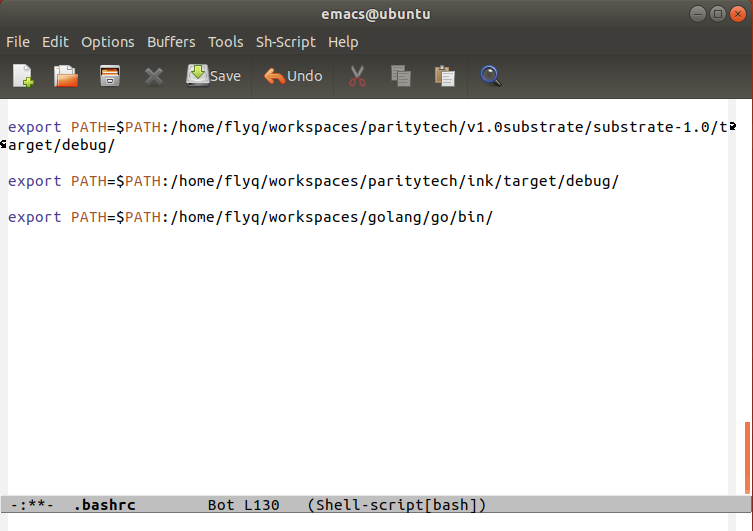
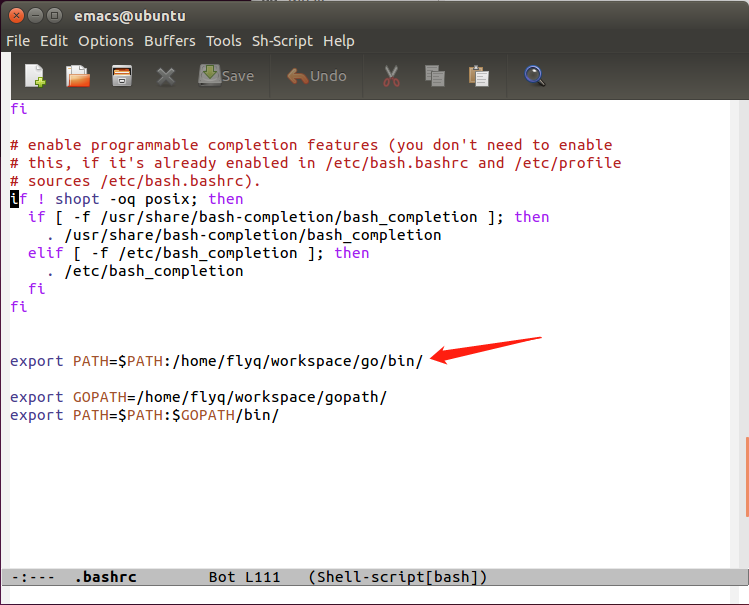
update

diff --git a/lession 02/README.md b/lession 02/README.md
@@ -173,11 +173,36 @@ tar -xvf go1.10.3.linux-amd64.tar.gz
 ```
 得到 `./go/` 文件夹：
 ```shell
-$ ls go/
+ls go/
+```
+计算机的log输出是：
+```shell
 api      bin              CONTRIBUTORS  favicon.ico  LICENSE  PATENTS  README.md   src   VERSION
 AUTHORS  CONTRIBUTING.md  doc           lib          misc     pkg      robots.txt  test
 ```
-这个文件夹里面就有 go 语言的配套环境了，然后设置当前用户的环境变量。
+进入 go 可执行文件目录：
+```shell
+cd ./go/bin/
+```
+查看文件
+```shell
+ls
+```
+计算机的log输出：
+```shell
+go  godoc  gofmt
+```
+其中上面三个文件都是绿色，说明是可执行文件。
+
+得到当前目录的绝对路径
+```shell
+pwd
+```
+计算机的log输出：
+```shell
+/home/flyq/workspace/go/bin
+```
+因此拿着这个绝对论据去设置go的环境变量（就是去修改 .bashrc 文件）：
 
 用编辑器打开 ~/.bashrc 文件，比如我是用 gedit:
 ```shell
@@ -185,7 +210,7 @@ $ gedit ~/.bashrc
 ```
 在最后一行添加：
 ```shell
-export PATH=$PATH:/home/flyq/workspaces/golang/go/bin/
+export PATH=$PATH:/home/flyq/workspace/go/bin/
 ```
 主要，添加的这行每个人的路径不同，因此这行代码也不同，如下图，需要根据自己电脑环境对应目录的路径得到：
 ![dir](image/fabric16.png)
